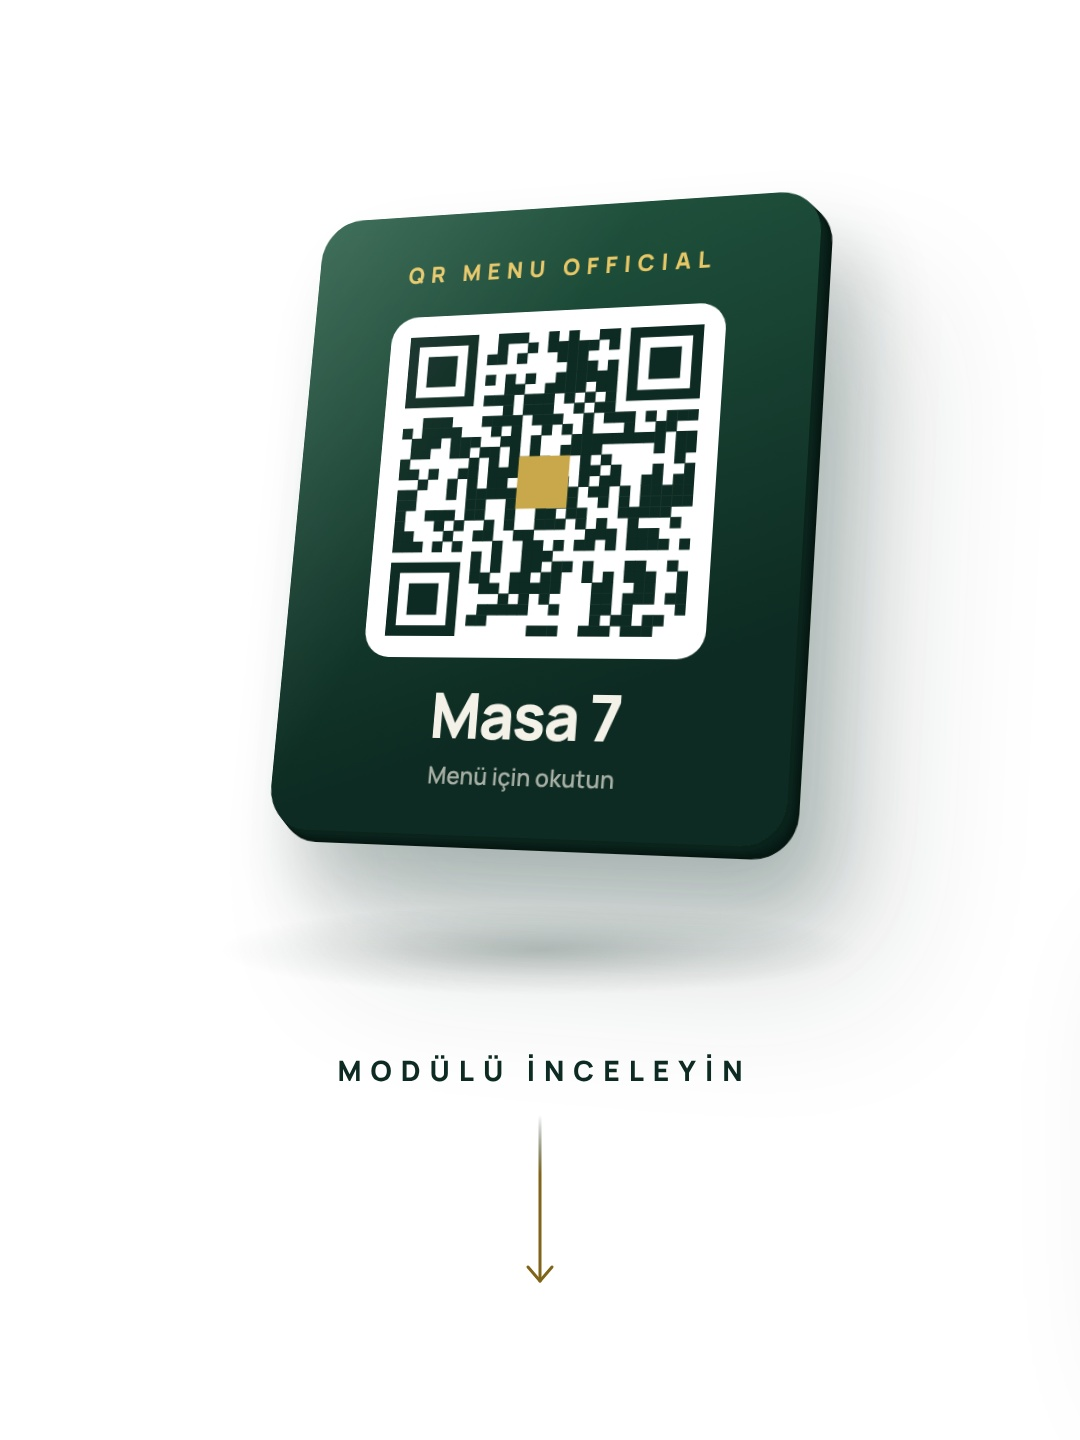
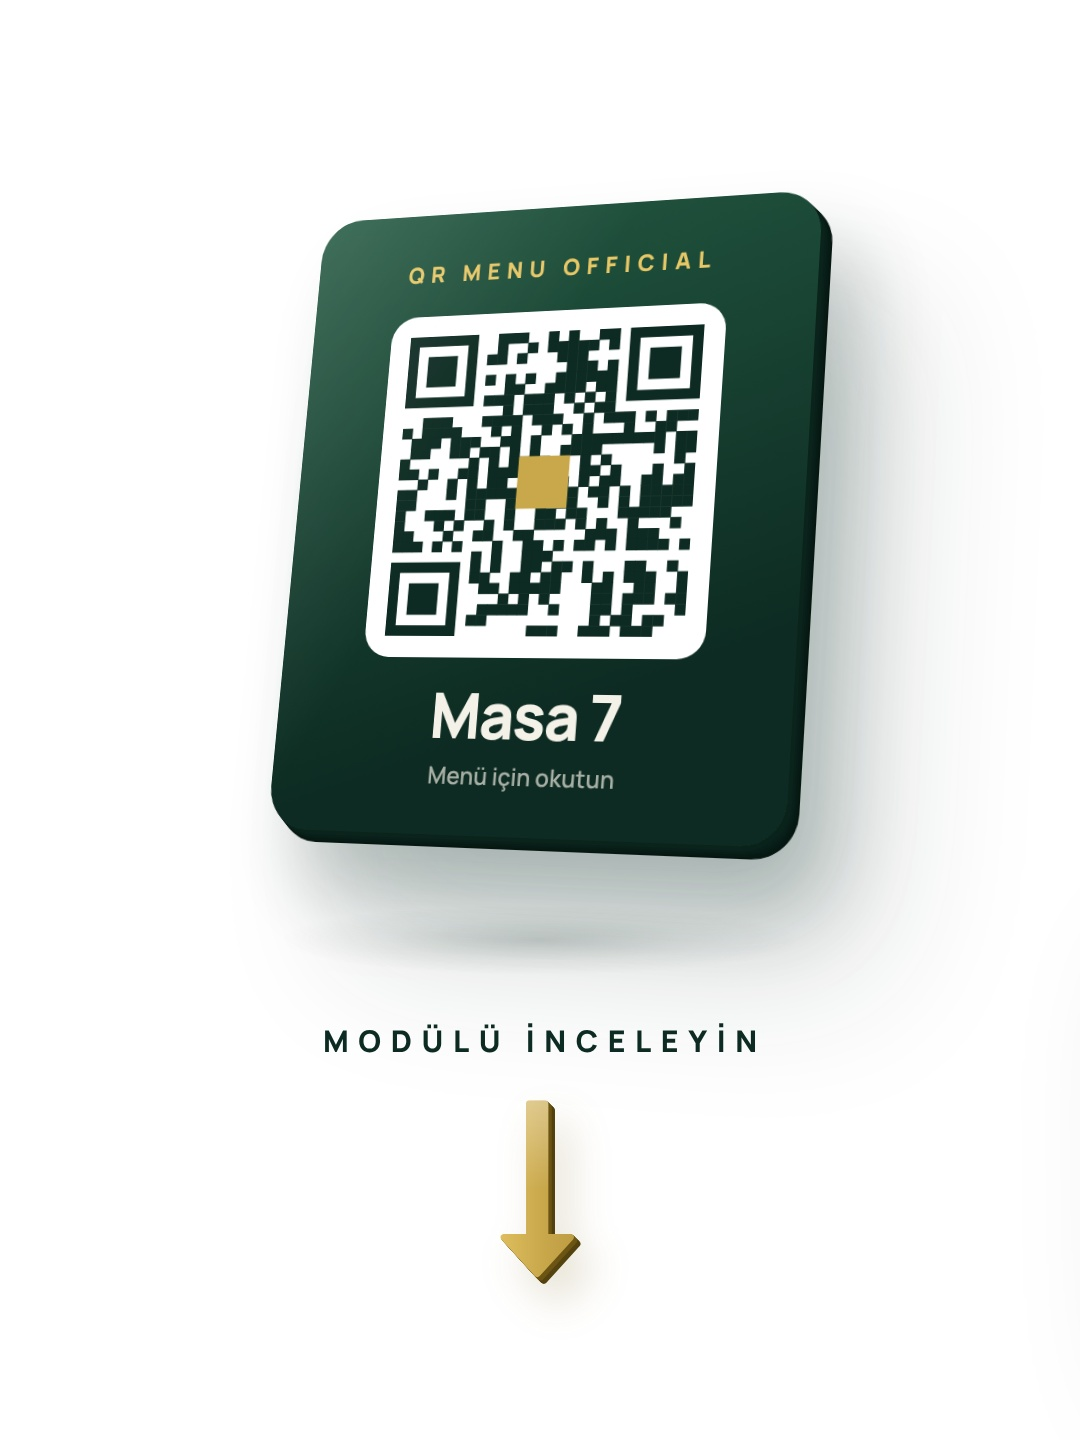
QR Masa içerik şeridi: orta yönlendirici 3B ok
Claude-Session: https://claude.ai/code/session_01FBw9rVwrniVjyFvtgVdFXq

Changed region(s): [[0.3056, 0.7188, 0.7028, 0.9062], [0.4278, 0.6562, 0.5806, 0.6875]]

diff --git a/tools/ig-split/qr-masa-a.html b/tools/ig-split/qr-masa-a.html
@@ -11,7 +11,7 @@ html,body{width:3240px;height:1440px;overflow:hidden;font-family:Manrope,sans-se
 .h{margin-top:40px;font-weight:800;font-size:168px;line-height:.98;letter-spacing:-.045em}
 .h b{color:var(--ink);font-weight:800}
 .L,.R{padding:340px 150px 0 150px}
-.floor{position:absolute;left:50%;transform:translateX(-50%);width:640px;height:90px;border-radius:50%;background:radial-gradient(closest-side,#0D2B2240,#0D2B2214 60%,transparent)}
+.floor{position:absolute;left:50%;transform:translateX(-50%);width:520px;height:70px;border-radius:50%;background:radial-gradient(closest-side,#0D2B222e,#0D2B220d 60%,transparent)}
 /* orta: 3B stand */
 .st{position:absolute;left:270px;top:190px;width:540px;transform:rotateY(-20deg) rotateX(10deg) rotateZ(1deg);transform-style:preserve-3d}
 .st .face{position:relative;padding:48px 48px 44px;border-radius:44px;background:linear-gradient(160deg,#245A43,#0D2B22 75%);color:#F4F1E8;text-align:center;
@@ -22,8 +22,8 @@ box-shadow:1px 1px 0 #0a231b,2px 2px 0 #0a231b,3px 3px 0 #0a231b,4px 4px 0 #0a23
 .qr canvas{width:316px;height:316px;display:block}
 .st .m{font-weight:800;font-size:64px;letter-spacing:-.03em;line-height:1}
 .st .s{margin-top:12px;font-weight:600;font-size:24px;color:#F4F1E8AA}
-.nav{position:absolute;bottom:150px;left:0;width:1080px;display:flex;flex-direction:column;align-items:center;gap:26px}
-.nav span{font-weight:800;font-size:28px;letter-spacing:.32em;padding-left:.32em}
+.nav{position:absolute;bottom:140px;left:0;width:1080px;display:flex;flex-direction:column;align-items:center;gap:34px}
+.nav span{font-weight:800;font-size:30px;letter-spacing:.32em;padding-left:.32em;color:var(--y)}
 /* sağ: 3B panel */
 .pw{margin-top:80px;transform:rotateY(18deg) rotateX(10deg);transform-style:preserve-3d;transform-origin:left center}
 .panel{border-radius:36px;background:linear-gradient(160deg,#245A43,#0D2B22 75%);padding:40px 40px 34px;color:#F4F1E8;
@@ -55,7 +55,7 @@ box-shadow:-1px 1px 0 #0a231b,-2px 2px 0 #0a231b,-3px 3px 0 #0a231b,-4px 4px 0 #
   <div class="foot">Temsili veri</div></div></div>
 </div>
 <script>
-const ARW='<svg width="36" height="170" viewBox="0 0 36 170" fill="none"><defs><linearGradient id="lg1" gradientUnits="userSpaceOnUse" x1="18" y1="0" x2="18" y2="170"><stop offset="0" stop-color="#0D2B22" stop-opacity="0"/><stop offset=".35" stop-color="#7F6419"/><stop offset="1" stop-color="#7F6419"/></linearGradient></defs><path d="M18 0V166" stroke="url(#lg1)" stroke-width="3" stroke-linecap="round"/><path d="M6 152L18 166L30 152" stroke="#7F6419" stroke-width="3" stroke-linecap="round" stroke-linejoin="round"/></svg>';
+const ARW='<svg width="128" height="200" viewBox="-10 -10 230 360" fill="none" style="filter:drop-shadow(14px 22px 20px #7F641933)"><defs><linearGradient id="ag2" x1="0" y1="0" x2="200" y2="0" gradientUnits="userSpaceOnUse"><stop offset="0" stop-color="#E8C766"/><stop offset=".55" stop-color="#C9A84C"/><stop offset="1" stop-color="#B8963E"/></linearGradient><linearGradient id="hl2" x1="0" y1="0" x2="0" y2="320" gradientUnits="userSpaceOnUse"><stop offset="0" stop-color="#fff" stop-opacity=".35"/><stop offset=".5" stop-color="#fff" stop-opacity="0"/></linearGradient></defs><path transform="translate(12 12)" d="M86 0h28a6 6 0 0 1 6 6v234h40a6 6 0 0 1 4.5 10L104.5 316a6 6 0 0 1-9 0L35.5 250A6 6 0 0 1 40 240h40V6a6 6 0 0 1 6-6z" fill="#54420f"/><path transform="translate(11 11)" d="M86 0h28a6 6 0 0 1 6 6v234h40a6 6 0 0 1 4.5 10L104.5 316a6 6 0 0 1-9 0L35.5 250A6 6 0 0 1 40 240h40V6a6 6 0 0 1 6-6z" fill="#54420f"/><path transform="translate(10 10)" d="M86 0h28a6 6 0 0 1 6 6v234h40a6 6 0 0 1 4.5 10L104.5 316a6 6 0 0 1-9 0L35.5 250A6 6 0 0 1 40 240h40V6a6 6 0 0 1 6-6z" fill="#54420f"/><path transform="translate(9 9)" d="M86 0h28a6 6 0 0 1 6 6v234h40a6 6 0 0 1 4.5 10L104.5 316a6 6 0 0 1-9 0L35.5 250A6 6 0 0 1 40 240h40V6a6 6 0 0 1 6-6z" fill="#54420f"/><path transform="translate(8 8)" d="M86 0h28a6 6 0 0 1 6 6v234h40a6 6 0 0 1 4.5 10L104.5 316a6 6 0 0 1-9 0L35.5 250A6 6 0 0 1 40 240h40V6a6 6 0 0 1 6-6z" fill="#54420f"/><path transform="translate(7 7)" d="M86 0h28a6 6 0 0 1 6 6v234h40a6 6 0 0 1 4.5 10L104.5 316a6 6 0 0 1-9 0L35.5 250A6 6 0 0 1 40 240h40V6a6 6 0 0 1 6-6z" fill="#54420f"/><path transform="translate(6 6)" d="M86 0h28a6 6 0 0 1 6 6v234h40a6 6 0 0 1 4.5 10L104.5 316a6 6 0 0 1-9 0L35.5 250A6 6 0 0 1 40 240h40V6a6 6 0 0 1 6-6z" fill="#6b5414"/><path transform="translate(5 5)" d="M86 0h28a6 6 0 0 1 6 6v234h40a6 6 0 0 1 4.5 10L104.5 316a6 6 0 0 1-9 0L35.5 250A6 6 0 0 1 40 240h40V6a6 6 0 0 1 6-6z" fill="#6b5414"/><path transform="translate(4 4)" d="M86 0h28a6 6 0 0 1 6 6v234h40a6 6 0 0 1 4.5 10L104.5 316a6 6 0 0 1-9 0L35.5 250A6 6 0 0 1 40 240h40V6a6 6 0 0 1 6-6z" fill="#6b5414"/><path transform="translate(3 3)" d="M86 0h28a6 6 0 0 1 6 6v234h40a6 6 0 0 1 4.5 10L104.5 316a6 6 0 0 1-9 0L35.5 250A6 6 0 0 1 40 240h40V6a6 6 0 0 1 6-6z" fill="#6b5414"/><path transform="translate(2 2)" d="M86 0h28a6 6 0 0 1 6 6v234h40a6 6 0 0 1 4.5 10L104.5 316a6 6 0 0 1-9 0L35.5 250A6 6 0 0 1 40 240h40V6a6 6 0 0 1 6-6z" fill="#6b5414"/><path transform="translate(1 1)" d="M86 0h28a6 6 0 0 1 6 6v234h40a6 6 0 0 1 4.5 10L104.5 316a6 6 0 0 1-9 0L35.5 250A6 6 0 0 1 40 240h40V6a6 6 0 0 1 6-6z" fill="#6b5414"/><path d="M86 0h28a6 6 0 0 1 6 6v234h40a6 6 0 0 1 4.5 10L104.5 316a6 6 0 0 1-9 0L35.5 250A6 6 0 0 1 40 240h40V6a6 6 0 0 1 6-6z" fill="url(#ag2)"/><path d="M86 0h28a6 6 0 0 1 6 6v234h40a6 6 0 0 1 4.5 10L104.5 316a6 6 0 0 1-9 0L35.5 250A6 6 0 0 1 40 240h40V6a6 6 0 0 1 6-6z" fill="url(#hl2)"/></svg>';
 document.body.innerHTML=document.body.innerHTML.replace('ARW',ARW);
 const c=document.getElementById('q'),x=c.getContext('2d'),N=29,s=316/N;let r=7;const rnd=()=>{r=(r*16807)%2147483647;return r/2147483647};
 x.fillStyle='#0D2B22';const fin=(a,b)=>{x.fillRect(a*s,b*s,7*s,7*s);x.fillStyle='#fff';x.fillRect((a+1)*s,(b+1)*s,5*s,5*s);x.fillStyle='#0D2B22';x.fillRect((a+2)*s,(b+2)*s,3*s,3*s)};
